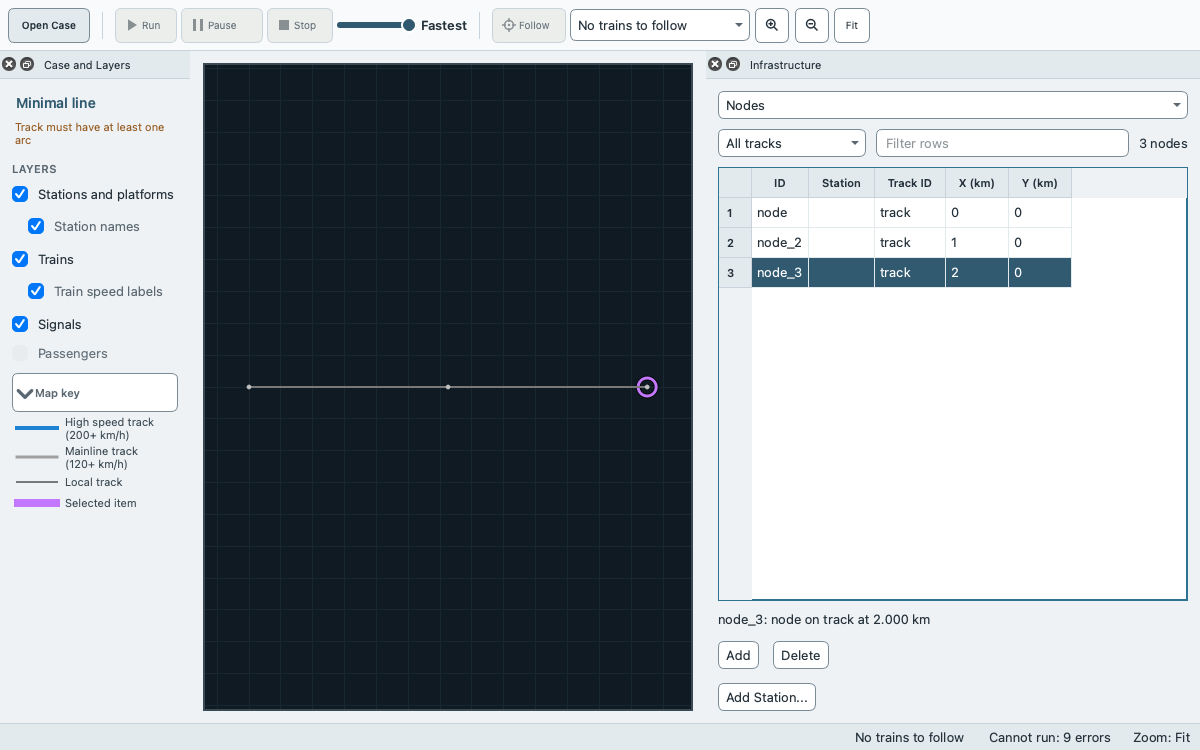
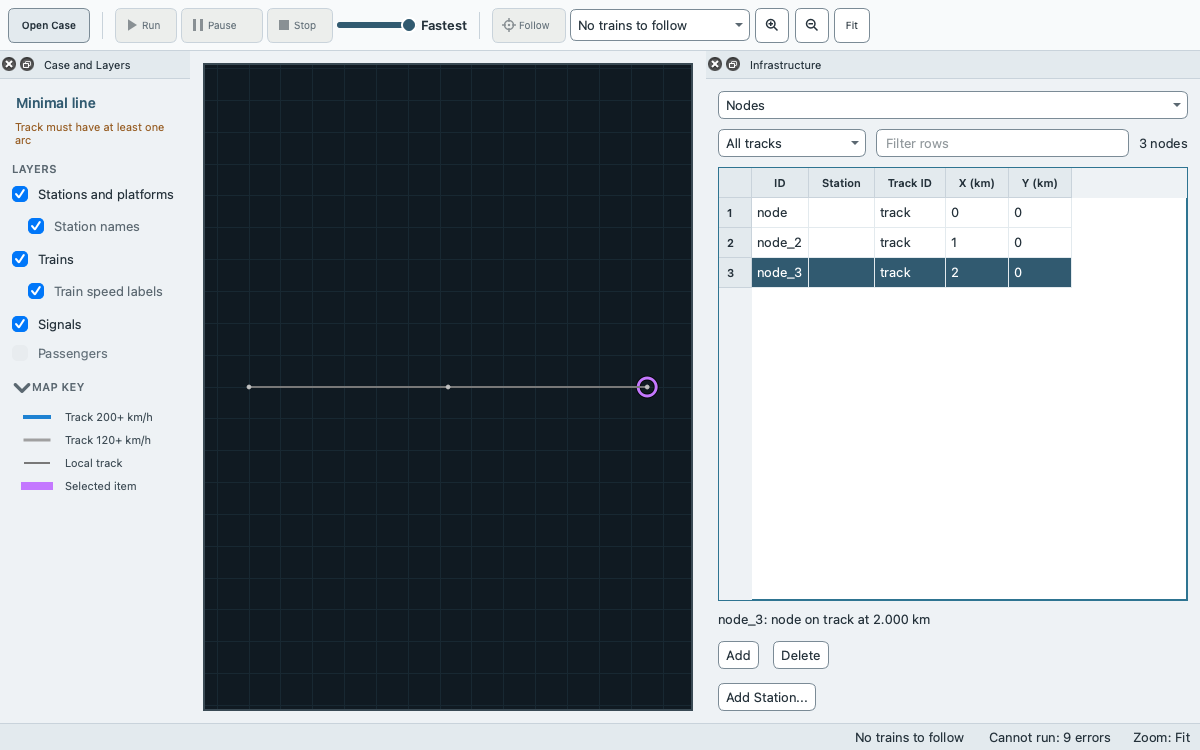
Retake the guide pictures and add the notes of release 1.1.2 (#1469)
* Retake the guide pictures with the new map key

* Add the notes of release 1.1.2

Changed region(s): [[0.0, 0.4907, 0.1233, 0.6747]]

diff --git a/docs/releases/1.1.2.md b/docs/releases/1.1.2.md
@@ -1,0 +1,11 @@
+# Network pictures and passenger rules
+
+EGTRAIN 1.1.2 saves the network as a picture, settles three routing rules for passengers and measures the delay of a replanned journey against its first plan. Runs with many waiting passengers take less time per step, and the pictures in the guides show the new map key.
+
+- Network picture: File > Export Network Image... saves the whole network as a PNG or SVG picture, as the view shows it at Fit with the layers that are on. It works before, during and after a run and leaves the zoom of the window as it is.
+- Routing: when two trains arrive at the same time with the same number of changes, a passenger takes the one that leaves first. A passenger boards a train at their platform that reaches their destination directly and no later than their plan. The walk at a change is a case setting in Case Settings, 30 s per platform number of difference by default.
+- Delay: a passenger who misses a connection and is planned again gets the delay against the arrival of their first plan. This changes the Delay column of `PassengerJourneys.txt`, MeanDelay in `ODSummary.txt` and `JourneyDelays.txt` for replanned journeys.
+- Speed: the station counts and platform lists no longer walk every waiting passenger at each step. At 200,000 waiting passengers the station counts take 120 µs per step instead of 7.6 ms. `PassengerJourneys.txt` is written row by row, with the same content.
+- Smaller changes: the station tooltip and a passenger's text name a platform as "Platform 2" or "platform 2", the Demand CSV export proposes the slice id as the file name, and ids with a tab or a line break are rejected because the result files cannot hold them.
+
+Release 1.1.1 and older open a case with the new walking setting without a message, use their old walking rule and leave the key out when they save it.

diff --git a/docs/index.md b/docs/index.md
@@ -89,6 +89,7 @@ development/code-signing
 development/windows-installer
 releases/1.1.0
 releases/1.1.1
+releases/1.1.2
 ```
 
 Each of these pages records one conversion, comparison, rehearsal, check or study. They are not guides for the current release.
